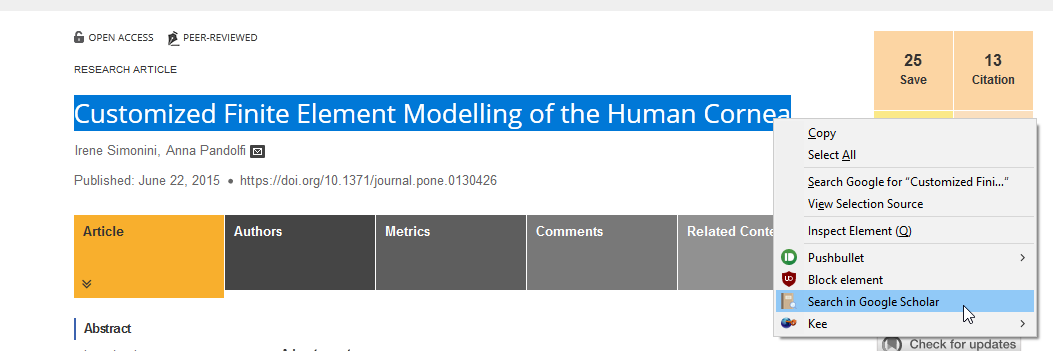
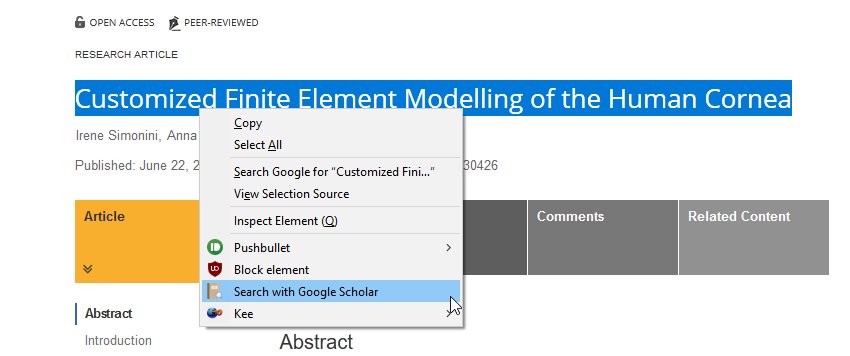
changed name to avoid conflict with existing extension

diff --git a/background.js b/background.js
@@ -1,10 +1,10 @@
 browser.contextMenus.create({
-  id: "search-in-google-scholar",
-  title: "Search in Google Scholar",
+  id: "search-with-google-scholar",
+  title: "Search with Google Scholar",
   contexts: ["selection"],
 });
 browser.contextMenus.onClicked.addListener((info, tab) => {
-  if (info.menuItemId === "search-in-google-scholar") {
+  if (info.menuItemId === "search-with-google-scholar") {
     // Encodes the selected text as a URI component
     const queryText = encodeFormDataURIComponent(info.selectionText);
     // Construct the query URL
